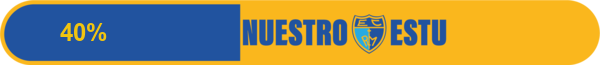
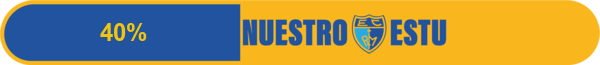
40%

Changed region(s): [[0.09, 0.3385, 0.27, 0.6462]]

diff --git a/public/noticias/encuesta/index.html b/public/noticias/encuesta/index.html
@@ -139,7 +139,7 @@
 <p>Nos interesa su opinión; hemos preparado una rapidísima encuesta. Le llevará muy poco tiempo contestarla y nos comprometemos a trasladar su resultado a la directiva.</p>
 <p>¡Ayúdenos a llegar a 1000 repuestas!</p>
 <div class="progressbar">
-<img src=/img/progbar-35.png alt=35% style="max-width: 100%">
+<img src=/img/progbar-40.png alt=40% style="max-width: 100%">
 </div>
 <iframe src="https://docs.google.com/forms/d/e/1FAIpQLSdsSQaVsEkUFBAuhsDd7TpCpMPtx6kA_iZXi_Hk7SD-1lQ00Q/viewform?embedded=true" width="90%" height="600" frameborder="0" marginheight="0" marginwidth="0">Chargement en cours…</iframe>
 </div>

diff --git a/content/noticias/encuesta.md b/content/noticias/encuesta.md
@@ -15,6 +15,6 @@ Nos interesa su opinión; hemos preparado una rapidísima encuesta. Le llevará 
 
 ¡Ayúdenos a llegar a 1000 repuestas!
 
-{{< progressbar src="/img/progbar-35.png" alt="35%" >}}
+{{< progressbar src="/img/progbar-40.png" alt="40%" >}}
 
 {{< survey src="1FAIpQLSdsSQaVsEkUFBAuhsDd7TpCpMPtx6kA_iZXi_Hk7SD-1lQ00Q" width="400" height="4871" >}}
